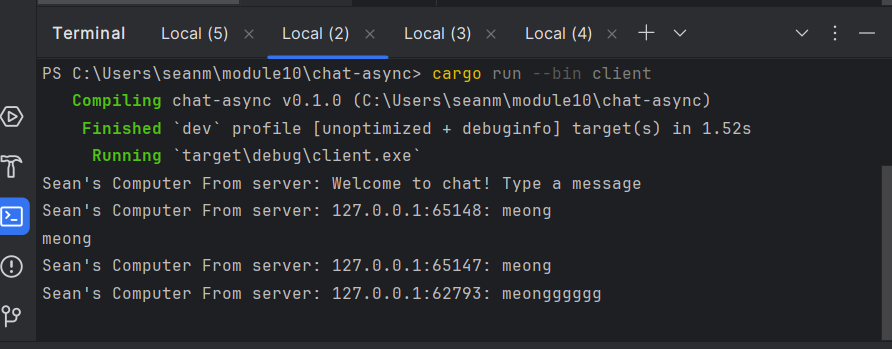
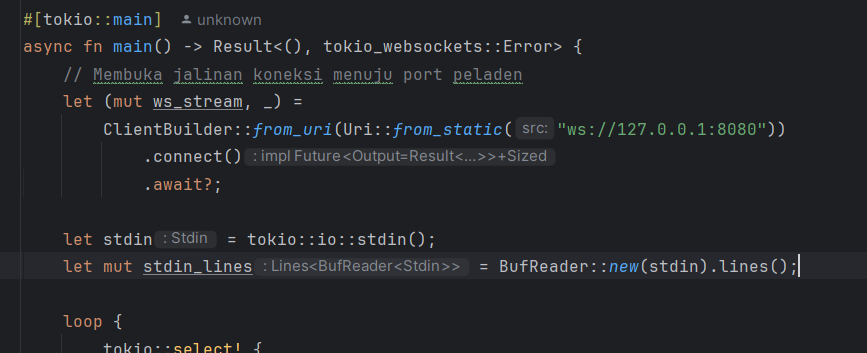
Experiment 2.3: Small changes, add IP and Port

diff --git a/src/bin/server.rs b/src/bin/server.rs
@@ -11,28 +11,32 @@ async fn handle_connection(
     mut ws_stream: WebSocketStream<TcpStream>,
     bcast_tx: Sender<String>,
 ) -> Result<(), Box<dyn Error + Send + Sync>> {
+    // Membuat receiver baru untuk berlangganan ke saluran siaran server
     let mut bcast_rx = bcast_tx.subscribe();
 
-    // Menyisipkan nama identifikasi personal pada pesan selamat datang peladen
+    // Mengirim pesan sambutan awal bawaan modul praktikum
     ws_stream.send(Message::text("Sean's Computer From server: Welcome to chat! Type a message")).await?;
 
     loop {
         tokio::select! {
+            // Menerima pesan teks dari WebSocket klien ini
             incoming = ws_stream.next() => {
                 match incoming {
                     Some(Ok(msg)) => {
                         if let Some(text) = msg.as_text() {
-                            // Menyisipkan informasi IP dan Port asal pengirim pesan
-                            let formatted_msg = format!("{}: {}", addr, text);
-                            let _ = bcast_tx.send(formatted_msg);
+                            // KODE SEBELUM PERUBAHAN:
+                            // Langsung meneruskan teks mentah asli dari klien ke saluran broadcast
+                            let _ = bcast_tx.send(text.to_string());
                         }
                     }
                     _ => break,
                 }
             }
+            // Menerima pesan kiriman dari saluran broadcast utama peladen
             msg = bcast_rx.recv() => {
                 match msg {
                     Ok(text) => {
+                        // Meneruskan pesan siaran bersih ke terminal klien ini
                         ws_stream.send(Message::text(format!("Sean's Computer From server: {}", text))).await?;
                     }
                     _ => break,
@@ -43,11 +47,12 @@ async fn handle_connection(
     Ok(())
 }
 
+// ... (fungsi handle_connection tetap sama seperti Experiment 2.1) ...
+
 #[tokio::main]
 async fn main() -> Result<(), Box<dyn Error + Send + Sync>> {
     let (bcast_tx, _) = channel(16);
 
-    // Alamat pengikatan soket jaringan peladen
     let listener = TcpListener::bind("127.0.0.1:8080").await?;
     println!("listening on port 8080");
 
@@ -55,6 +60,7 @@ async fn main() -> Result<(), Box<dyn Error + Send + Sync>> {
         let (socket, addr) = listener.accept().await?;
         println!("New connection from {addr:?}");
         let bcast_tx = bcast_tx.clone();
+
         tokio::spawn(async move {
             let (_req, ws_stream) = ServerBuilder::new().accept(socket).await.unwrap();
             let _ = handle_connection(addr, ws_stream, bcast_tx).await;

diff --git a/src/bin/README.md b/src/bin/README.md
@@ -1,6 +1,6 @@
 ### “Experiment 2.1: Original code, and how it run”
-
 ![img.png](img.png)
+
 
 Cara Menjalankan Aplikasi:
 Untuk mengoperasikan aplikasi obrolan ini, langkah pertama yang harus dilakukan adalah menjalankan program peladen (server) melalui terminal utama dengan mengeksekusi perintah cargo run --bin server. Setelah peladen aktif mendengarkan koneksi jaringan pada port yang ditentukan, buka tiga buah jendela terminal baru secara terpisah untuk bertindak sebagai klien mandiri. Pada masing-masing terminal klien tersebut, jalankan perintah cargo run --bin client untuk menginisiasi proses jabat tangan protokol WebSocket menuju alamat peladen.
@@ -10,6 +10,19 @@ Ketika seorang pengguna mengetikkan pesan teks di salah satu terminal klien dan 
 
 ### “Experiment 2.2: Modifying port”.
 
+#### CLient
 ![img_1.png](img_1.png)
 
+#### Server
+![img_3.png](img_3.png)
+
 Proses pemindahan lokasi port jaringan dari nilai bawaan 2000 menjadi 8080 dilakukan dengan mengubah dua berkas kode sumber utama yang merepresentasikan dua sisi arsitektur jaringan, yaitu sisi peladen (server side) dan sisi klien (client side). Pada berkas peladen src/bin/server.rs, modifikasi diterapkan pada instansiasi TcpListener::bind dengan mengubah string alamat pengikatan jaringan dari "127.0.0.1:2000" menjadi "127.0.0.1:8080". Sementara itu, di sisi klien pada berkas src/bin/client.rs , perubahan dilakukan pada parameter fungsi statis ClientBuilder::from_uri(Uri::from_static(...)) dengan mengganti target alamat penargetan menjadi "ws://127.0.0.1:8080".  Komunikasi data interaktif ini sepenuhnya menggunakan skema protokol WebSocket yang sama. Protokol ini secara eksplisit didefinisikan melalui penggunaan skema penanda awal tautan berupa ws:// pada parameter URI di sisi klien. Penanda protokol tersebut berfungsi menginstruksikan pustaka klien agar melakukan inisiasi permintaan jabat tangan (handshake Upgrade request) dari protokol HTTP biasa menuju protokol WebSocket yang bersifat persisten dan dua arah (full-duplex). Di sisi lain, peladen juga telah dikonfigurasi menggunakan pustaka tokio_websockets untuk mendengarkan, memvalidasi, dan menerima jabat tangan protokol ws yang masuk tersebut melalui pemanggilan fungsi ServerBuilder::new().accept(socket), sehingga kedua belah pihak dapat saling bertukar data secara asinkronus tanpa hambatan pada port baru
+
+### “Experiment 2.3: Small changes, add IP and Port”
+
+![img_2.png](img_2.png)
+
+Analisis Alasan dan Letak Perubahan Kode
+Alasan utama dilakukannya perubahan ini adalah untuk meningkatkan fungsionalitas antarmuka aplikasi obrolan klien agar pesan yang diterima menjadi lebih informatif. Tanpa adanya modifikasi pada sisi peladen (server), setiap klien yang terhubung hanya akan menerima untaian teks mentah biasa tanpa mengetahui identitas fisik dari entitas pengirim pesan tersebut. Oleh karena sistem saat ini belum mengimplementasikan modul manajemen nama pengguna (username), pendekatan paling optimal untuk membedakan antar-klien adalah dengan memanfaatkan parameter informasi jaringan yang tersedia secara unik pada setiap soket koneksi aktif.
+
+Perubahan kode dilakukan seluruhnya pada fungsi handle_connection di dalam berkas peladen src/bin/server.rs. Modifikasi diterapkan tepat di dalam blok pencarian asinkronus tokio::select! pada bagian penanganan pesan masuk (incoming message). Menggunakan makro format!, variabel addr yang menyimpan objek struktur SocketAddr pengirim (berisi kombinasi alamat IP dan nomor port) digabungkan di depan string pesan asli sebelum disalurkan ke saluran broadcast channel. Perubahan ini krusial karena peladen bertindak sebagai pusat kendali distribusi data; dengan memformat pesan di peladen, seluruh klien yang terhubung secara otomatis akan menerima pesan terformat yang sudah dilengkapi informasi pengirim tanpa perlu melakukan komputasi tambahan atau mengubah kode di sisi klien itu sendiri.